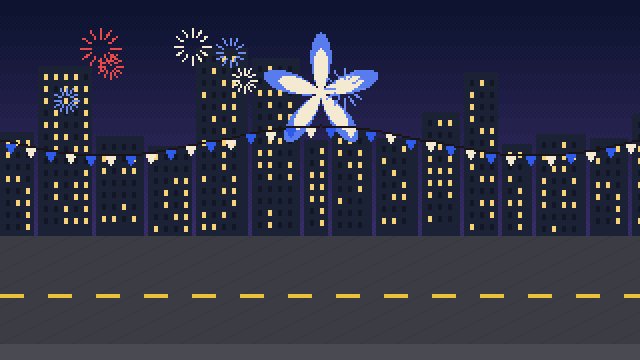
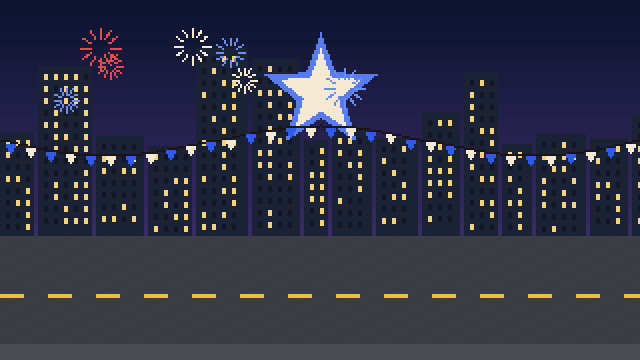
test: Chapter 4 New York evidence, Liberty-7 art requests, credits
production/qa/evidence/chapter4-usa/: the arrival line, the four New York
maps, a Fifth Avenue fight in round 2 (the command menu refuses Florida
Man's second Attack: "Freedom! Florida Man just used Attack") and the
Super Patriot battle, from tools/capture/chapter4_usa_capture.gd (the boss
shot is a second run with --boss). The boss backdrop's sky star is now a
real five-pointed star. art.md section 4.3 lists the Liberty-7 enemies and
backdrops. chapter_four_progression_test now checks New York's end plays
the reputation ending. The credits roll names Liberty-7, New York and the
Infomercial Host.

Changed region(s): [[0.4062, 0.0917, 0.5938, 0.3972]]

diff --git a/production/asset-requests/art.md b/production/asset-requests/art.md
@@ -259,6 +259,20 @@ Chapter 3 plays today on stand-ins: each Influencia enemy is a MegaCorp enemy's 
 
 Guardrails as section 0: no real platforms, logos or brands; no real influencers.
 
+### 4.3 Liberty-7 enemies and backdrops (Chapter 4, New York; added 2026-11-04)
+
+Chapter 4 plays today on stand-ins: each Liberty-7 enemy is a MegaCorp enemy's strips recoloured Anthem Blue (`tools/art/liberty7_placeholder_sprites.gd`, `is_placeholder` in its sprite set), and the two backdrops are painted by `tools/art/liberty7_backdrops.gd`. Same spec as 4.2. Faction rule: Anthem Blue `#2F5BEA` and the star shape belong to Liberty-7 only; on navy UI its elements get a cream outline (art bible).
+
+| # | `<id>` / file | What | Prompt (after the Style Anchor) | Silhouette must read as |
+|---|---|---|---|---|
+| L1 | `star_trooper` | Star Trooper (regular) | *alien marching-band trooper with a star-shaped head, tall plumed band hat, big bass drum on a strap, blue band jacket with gold piping, high-stepping* | A drum and a plume, mid-march |
+| L2 | `eagle_drone` | Eagle Drone (regular, also the overworld patrol) | *floating alien drone shaped like a stylised bald eagle, wide metal wings, one round camera eye, blue and white star decals, beak open mid-screech* | Spread wings, open beak |
+| L3 | `super_patriot` | Super Patriot (boss) | *towering alien showman in a star-spangled blue cape and sash, giant foam finger, chest puffed out, fireworks sparking from both shoulders, enormous grin* | Cape, foam finger, puffed chest |
+| L4 | `bg_battle_liberty7.png` | Battle backdrop, 640x360 | *New York avenue at parade noon, skyscrapers, yellow lane dashes on the road, blue and white star bunting strung across the street, no text, no real brands* | Bright, blue bunting |
+| L5 | `bg_battle_liberty7_boss.png` | Boss backdrop, 640x360 | *the same skyline at night, fireworks bursting, a giant glowing blue star hanging in the sky over the street* | The sky star |
+
+Guardrails as section 0, plus: no salutes, no uniforms or insignia that resemble real militaries or political movements, no real flags, no guns. Liberty-7 is a marching band and a fireworks show, never an army.
+
 ---
 
 ## 5. Later (not needed for Chapter 1 to play)
@@ -270,7 +284,7 @@ Guardrails as section 0: no real platforms, logos or brands; no real influencers
 | MegaCorp overworld region | Chapter 2. Needs the city decision (writing.md D-7), then the same list as sections 2-3 in wedge shapes and Terminal Cyan |
 | True 3D low-poly sets | `.glb` per building, once the flats prove the layout |
 | Influencia overworld region | Chapter 3 (Sydney) plays on the London-shaped maps with procedural harbour and Content House surfaces (set styles 4 and 5). Same list as sections 2-3 in circle shapes and Feed Magenta |
-| Liberty-7 | Not yet in the campaign |
+| Liberty-7 overworld region | Chapter 4 (New York) plays on the London-shaped maps with procedural avenue and Liberty Dome surfaces (set styles 6 and 7). Same list as sections 2-3 in star shapes and Anthem Blue |
 
 ## 6. Priority order (one line each)
 
